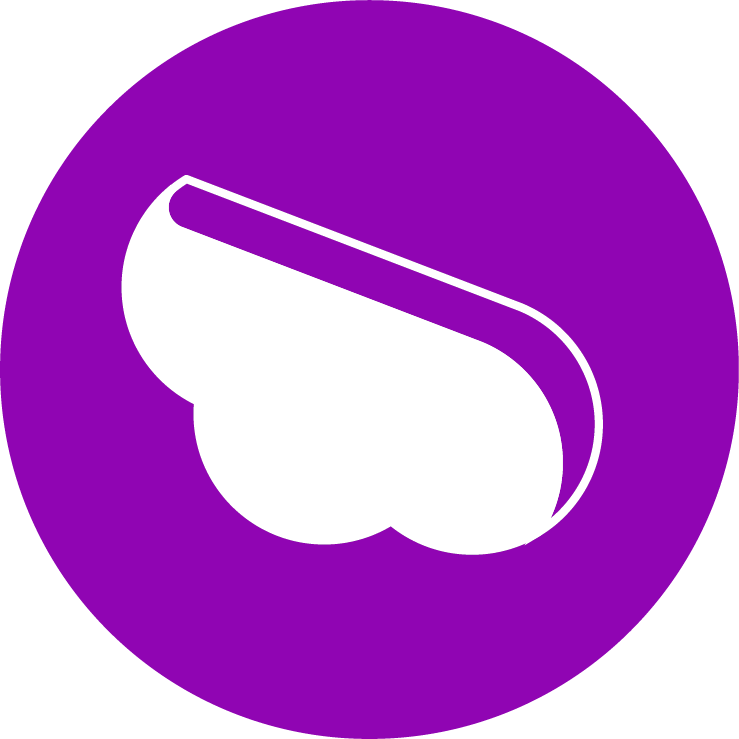
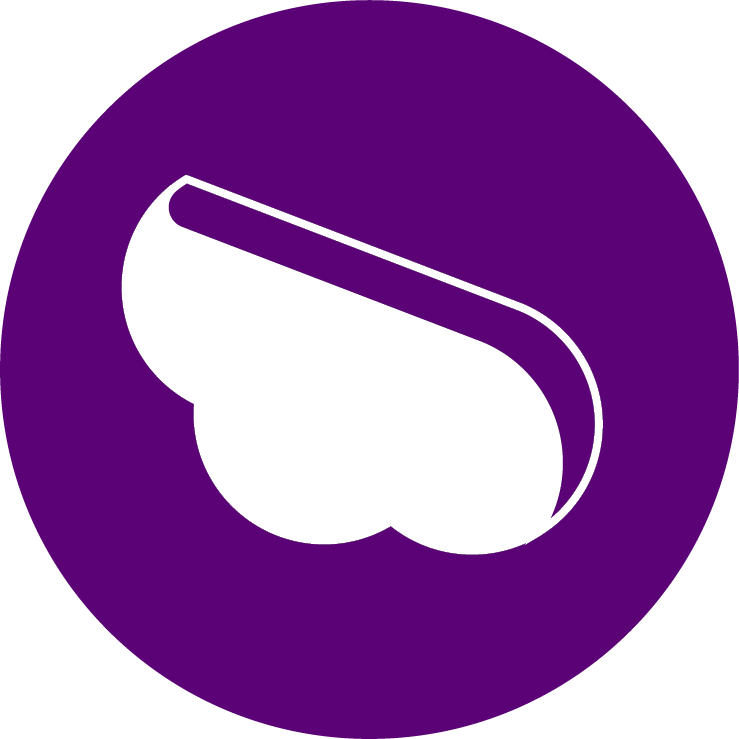
Atualização do Layout principal

diff --git a/src/layouts/MainLayout3.vue b/src/layouts/MainLayout3.vue
@@ -1,0 +1,52 @@
+<template>
+  <q-layout view="lHh LpR lFf">
+
+    <q-header reveal bordered class="bg-primary text-white" height-hint="98">
+      <q-toolbar>
+        <q-btn dense flat round icon="menu" @click="left = !left" />
+
+        <q-toolbar-title>
+          <q-avatar>
+            <img src="~assets/simbolo.png">
+          </q-avatar>
+          <b>    Avuá Libras</b> Site Oficial
+        </q-toolbar-title>
+      </q-toolbar>
+
+      <q-tabs align="right">
+        <q-route-tab to="/page1" label="Página Inicial" />
+        <q-route-tab to="/page2" label="Quadros" />
+        <q-route-tab to="/page3" label="Quem somos" />
+        <q-route-tab to="/page3" label="Cursos" />
+        <q-route-tab to="/page3" label="Agenda" />
+      </q-tabs>
+    </q-header>
+
+    <q-drawer v-model="left" side="left" overlay behavior="mobile" bordered>
+      <!-- drawer content -->
+    </q-drawer>
+
+    <q-page-container>
+      <router-view />
+    </q-page-container>
+
+    <q-footer bordered class="bg-white text-secondary">
+      <q-toolbar>
+        <q-toolbar-title>
+          © 2020 Avuá Libras - Site Oficial. Todos os direitos reservados.
+        </q-toolbar-title>
+      </q-toolbar>
+    </q-footer>
+
+  </q-layout>
+</template>
+
+<script>
+export default {
+  data () {
+    return {
+      left: false
+    }
+  }
+}
+</script>

diff --git a/src/router/routes.ts b/src/router/routes.ts
@@ -3,7 +3,7 @@ import { RouteConfig } from 'vue-router'
 const routes: RouteConfig[] = [
   {
     path: '/',
-    component: () => import('layouts/MainLayout.vue'),
+    component: () => import('layouts/MainLayout3.vue'),
     children: [{ path: '', component: () => import('pages/Index.vue') }]
   },
   {

diff --git a/src/css/quasar.variables.sass b/src/css/quasar.variables.sass
@@ -13,7 +13,7 @@
 // Tip: Use the "Theme Builder" on Quasar's documentation website.
 
 $primary   : #9900bf
-$secondary : #26A69A
+$secondary : #840fa3
 $accent    : #9C27B0
 
 $dark      : #1D1D1D

diff --git a/src/layouts/MainLayout.vue b/src/layouts/MainLayout.vue
@@ -30,7 +30,7 @@
         </q-menu>
       </q-btn>
         <q-toolbar-title>
-
+          Avuá Libras - Site Oficial
         </q-toolbar-title>
 
         <div></div>
